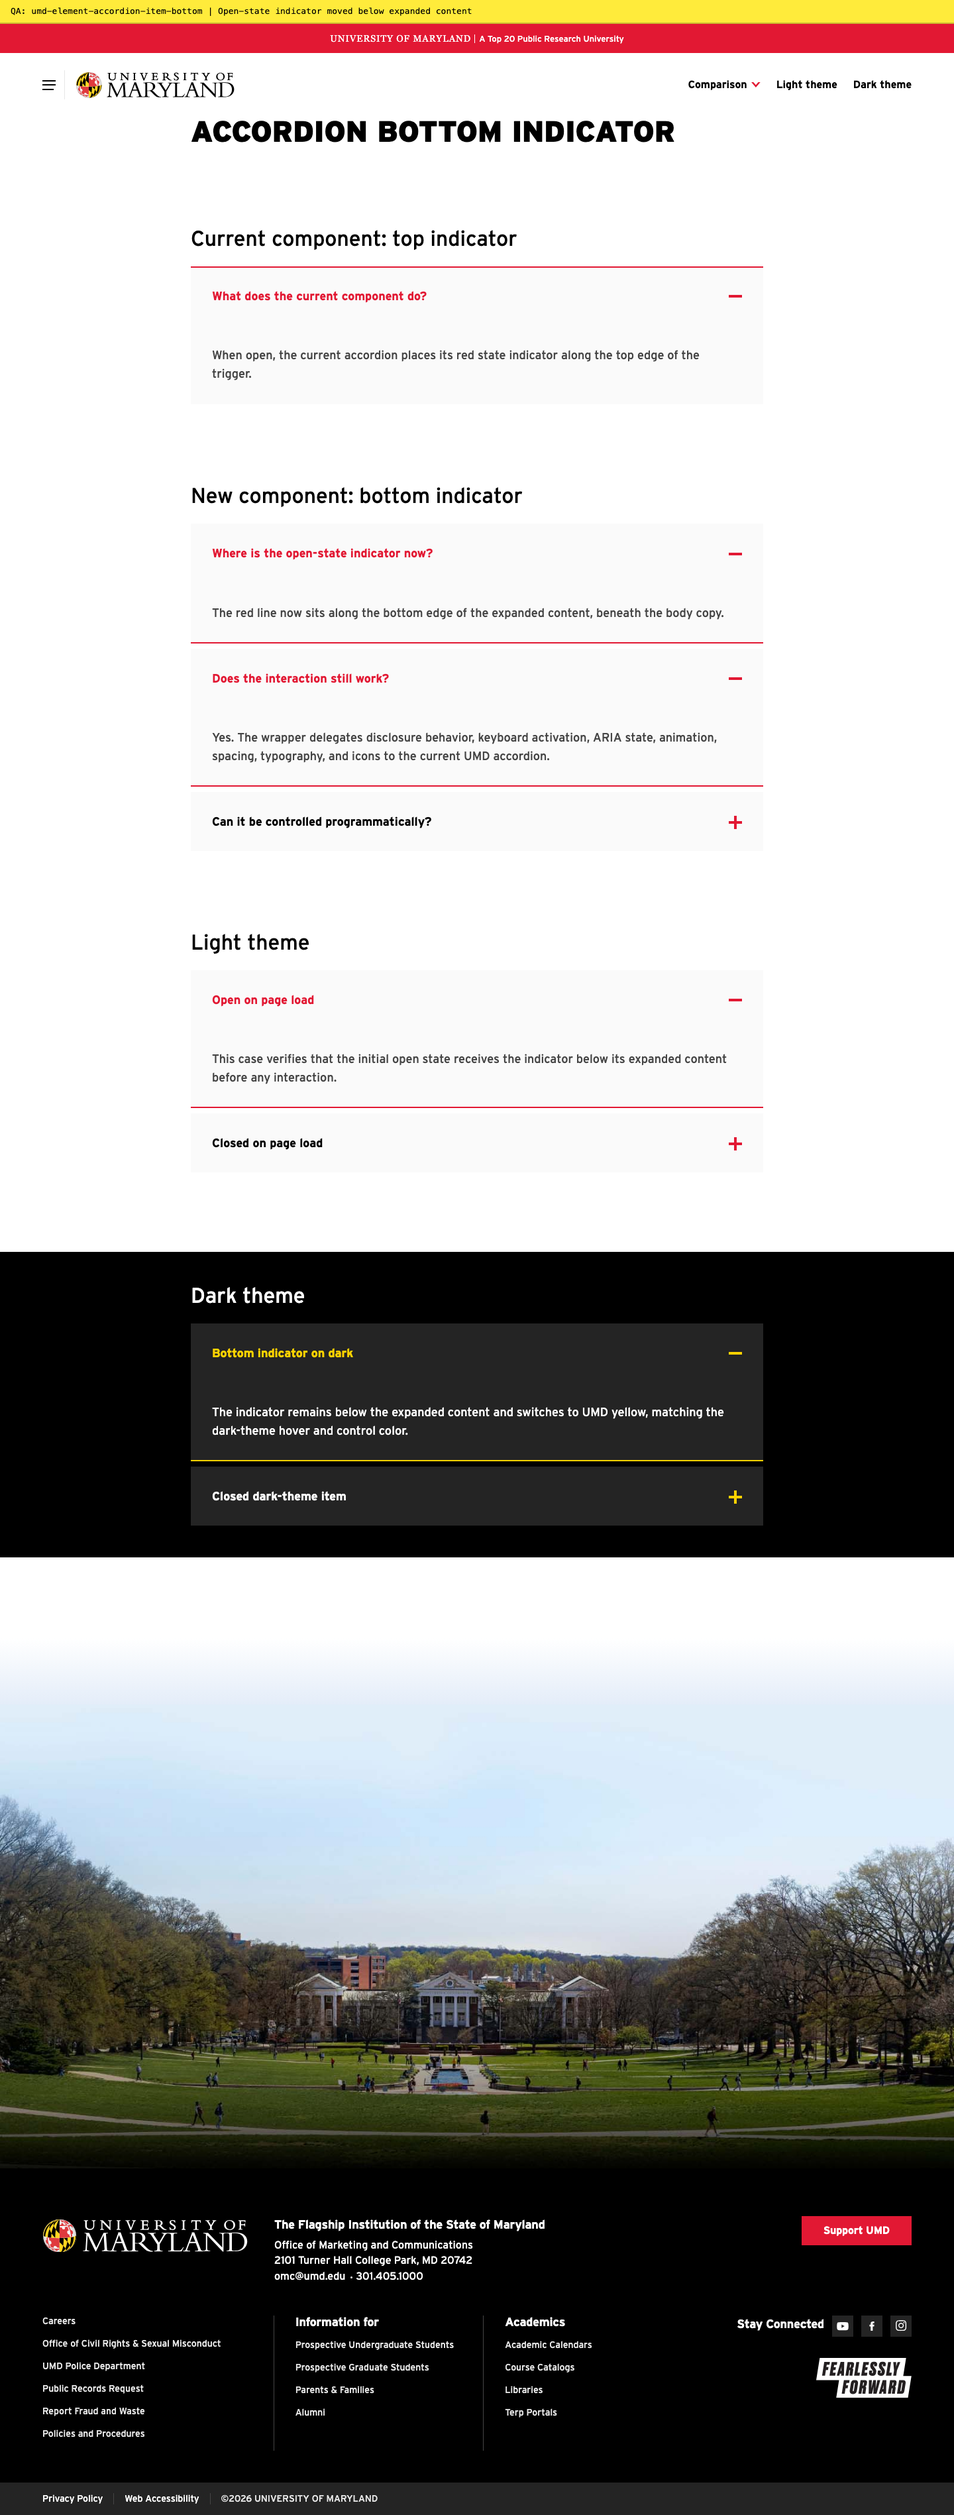
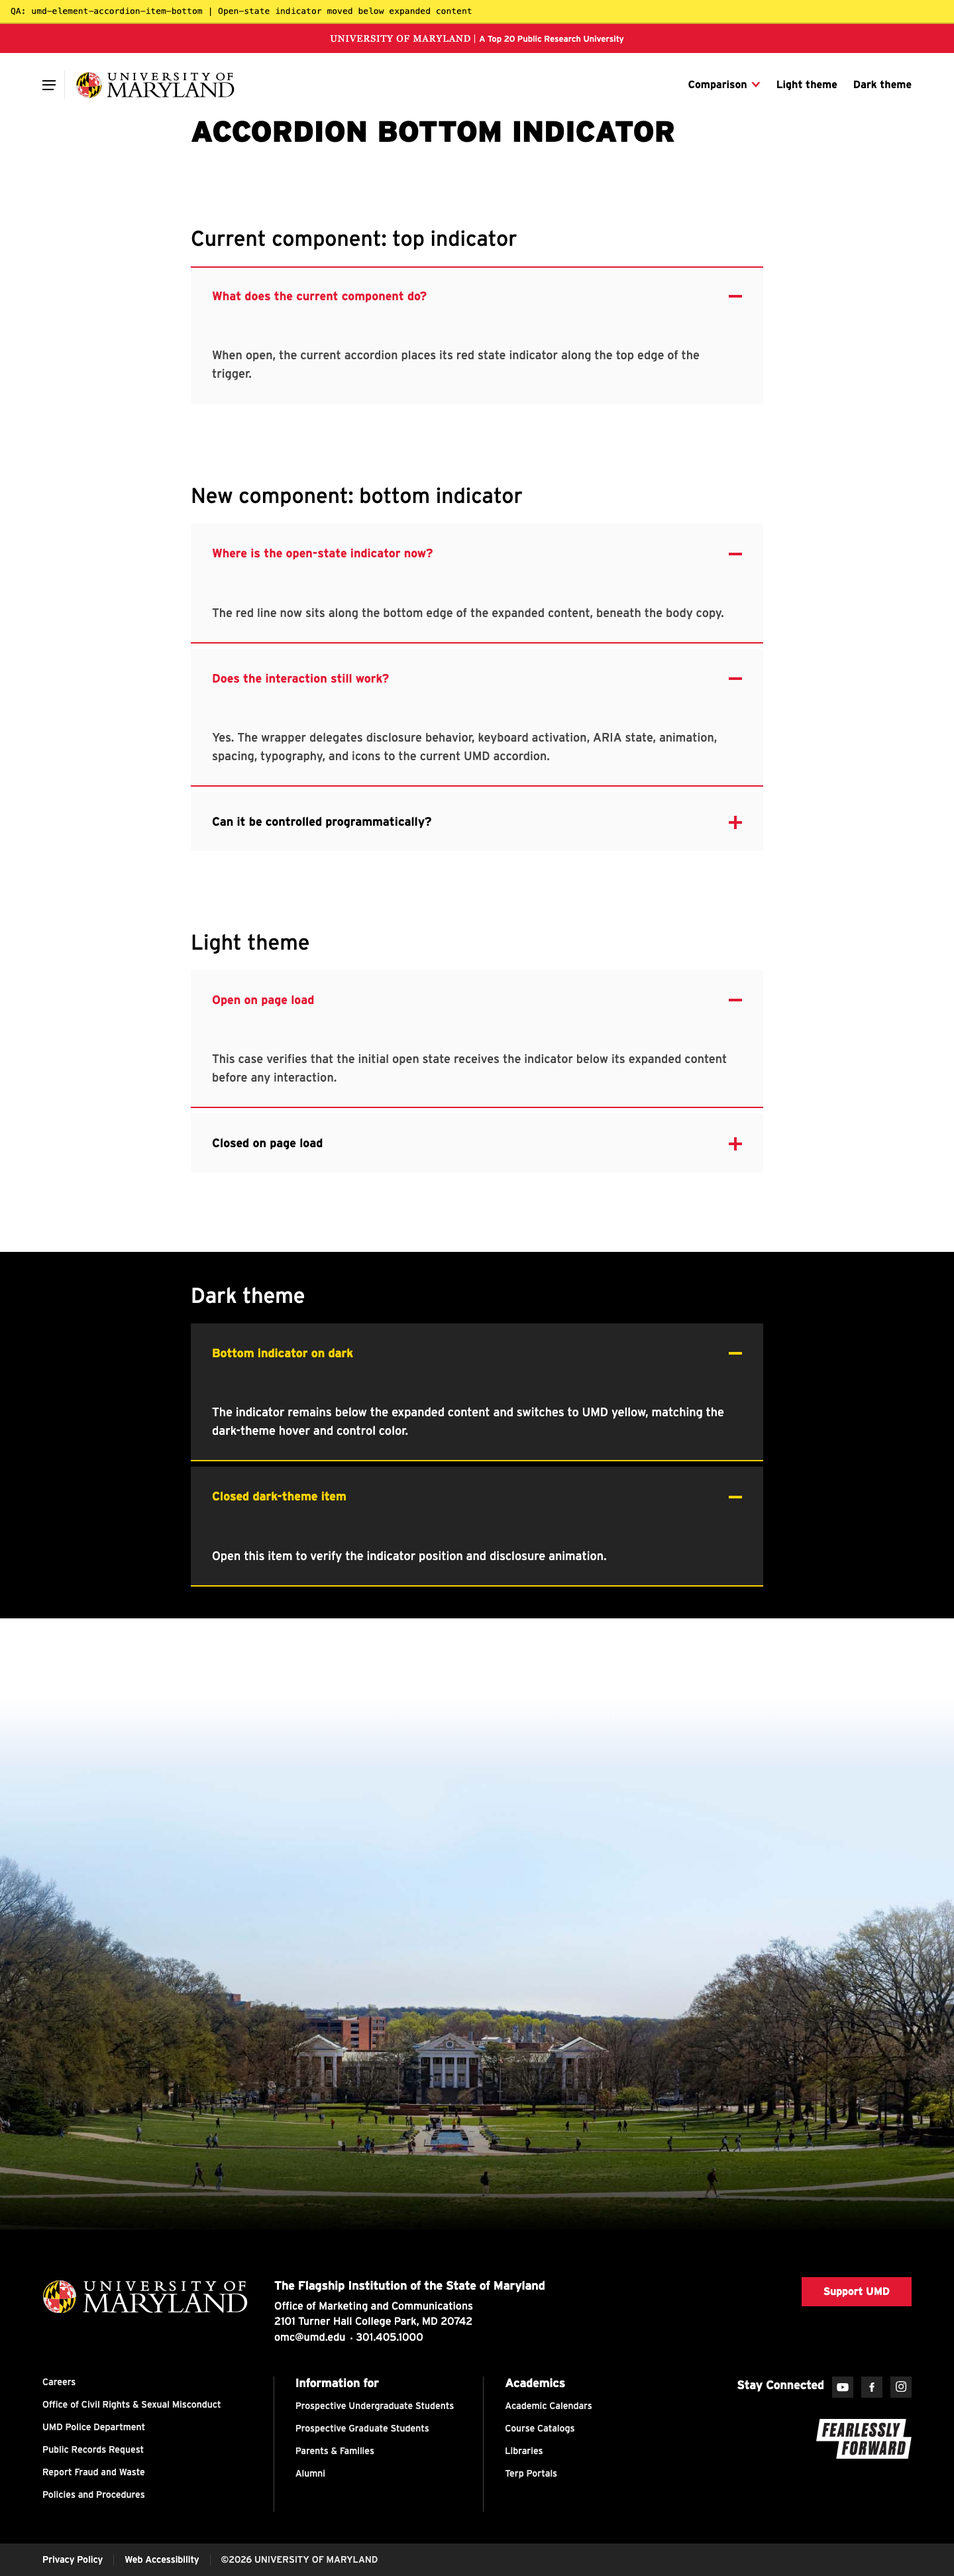
Refresh dark accordion indicator assets

diff --git a/qa/accordion-bottom.html b/qa/accordion-bottom.html
@@ -541,7 +541,7 @@
 
   <script>window.process = { env: {} };</script>
   <script src="../public/umd-components.js"></script>
-  <script type="module" src="../src/accordion-bottom.js"></script>
+  <script type="module" src="../src/accordion-bottom.js?v=dark-yellow-2"></script>
 </head>
 <body>
   <div style="background:#ffeb3b;color:#000;padding:8px 16px;font:13px/1.4 monospace;border-bottom:2px solid rgba(0,0,0,.2);position:sticky;top:0;z-index:9999;">
